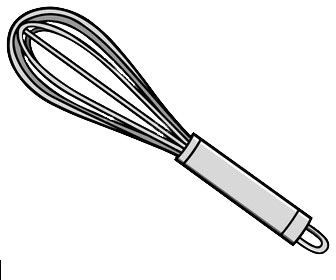
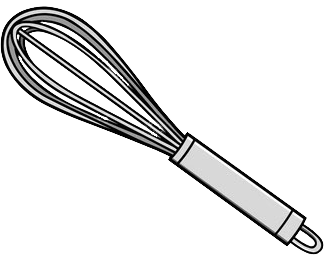
fixing up the ads and cookie descriptions

diff --git a/page.html b/page.html
@@ -82,43 +82,40 @@
        <div class="cookie1" id="cookie1">
            <img src="images/cookie1.jpg">
            <h3>Oreo S'mores Cookie</h3>
-           <p>Available with various flavors of crème fillings, the original oreo flavour is utilised with the vanilla flavour from the marshmallow. Oreo cookies are distributed worldwide through a variety of sales and marketing channels. As their popularity continues to grow, so too does the amount of distribution that comes with it, evident by the delicious taste.
-           </p>
+           <p>Accessible with different kinds of crème fillings, the first oreo flavor is used with the vanilla character from the marshmallow. Oreo treats are conveyed worldwide through an assortment of deals and advertising channels. As their prominence keeps on developing, so too does the measure of appropriation that accompanies it, apparent by the delectable taste.
+        </p>
        </div>
  
        <div class="cookie2" id="cookie2">
            <img src="images/cookie2.jpg">
            <h3>Red Velvet S'mores Cookie</h3>
-           <p>First appearing in some variation in the 1800s, the cake had a mahogany look to it that was similar to devil's food cake. Red velvet is indeed a very mild chocolate flavor since it possesses very little cocoa powder. You're getting bites of fluffy moist marshmallow with a very creamy delicate inner side of the cookie giving a really wonderful mouthfeel
-           </p>
+           <p>First showing up in some variety during the 1800s, the cake had a mahogany look to it that was like demon's food cake. Red velvet is to be sure an exceptionally gentle chocolate flavor since it has almost no cocoa powder. You're getting chomps of feathery sodden marshmallow with a bright smooth sensitive inward side of the treat giving a truly superb mouthfeel
+        </p>
        </div>
  
        <div class="cookie3" id="cookie3">
            <img src="images/cookie3.jpg">
            <h3>Caramilk S'mores Cookie</h3>
-           <p>Caramilk is one of the oldest chocolate bars in Canada. It is made by Cadbury Canada and is a caramel filled chocolate bar. This chocolate bar was first sold in 1968 and has since become a favourite among chocolate lovers. Cadbury Caramilk, the golden blend of caramelised white chocolate shares its textures with the marshmallow and cookie.
-           </p>
+           <p>Caramilk is one of the most flavourful chocolate bars worldwide. It is made by Cadbury and is a caramel filled chocolate bar. This chocolate bar was first sold in 1968 and has since turned into a top choice among chocolate fans. Cadbury Caramilk, the brilliant mix of caramelized white chocolate imparts its surfaces to the marshmallow and treat.
+        </p>
        </div>
  
        <div class="cookie4" id="cookie4">
            <img src="images/cookie4.jpg">
            <h3>Rainbow S'mores Cookie</h3>
-           <p>type of confectionery that is typically made from sugar, water and gelatin whipped to a solid but soft consistency. It is used as a filling in baking, or normally molded into shapes and coated with cornstarch. The sugar confection is inspired by a historical medicinal confection made from Althaea officinalis, the marsh-mallow plant.
-           </p>
+           <p>Kind of candy parlor that is regularly produced using sugar, water and gelatin whipped to a strong however delicate consistency. It is utilized as a filling in heating, or regularly formed into shapes and covered with cornstarch. The sugar dessert is enlivened by a chronicled therapeutic sweet produced using Althaea officinalis, the swamp mallow plant.</p>
        </div>
  
        <div class="cookie5" id="cookie5">
            <img src="images/cookie5.jpg">
            <h3>Choc Matcha S'mores Cookie</h3>
-           <p>Unlike other green tea that you steep and brew, matcha is the stone-ground powder of whole green tea leaves. Matcha is full of concentrated amounts of all of the many health benefits of green tea with a unique umami flavour .The result is a rich earthy tea with vegetal grassy notes, sweet nuttiness, and pleasant bitter undertones.
-           </p>
+           <p>Not at all like other green tea that you steep and brew, matcha is the stone-ground powder of entire green tea leaves. Matcha is loaded with concentrated measures of the entirety of the numerous medical advantages of green tea with a remarkable umami flavor .The outcome is a rich hearty tea with vegetal green notes, sweet nuttiness, and wonderful harsh feelings.</p>
        </div>
  
        <div class="cookie6" id="cookie6">
            <img src="images/cookie6.jpg">
            <h3>Lotus Biscoff S'mores Cookie</h3>
-           <p>Lotus Biscoff is famed for its distinctive caramel taste and is commonly served with coffee in cafes and restaurants, here in a cookie dessert. Their caramelized biscuit is a handful of natural ingredients with no colors and added flavor. It's a crisp and crunchy speculoos biscuits with a strong cinnamon and caramel flavor.
-           </p>
+           <p>Lotus Biscoff is celebrated for its unmistakable caramel taste and is ordinarily presented with espresso in bistros and eateries, here in a treat dessert. Their caramelized bread roll is a modest bunch of normal fixings without any tones and added flavor. It's a fresh and crunchy speculoos bread rolls with a solid cinnamon and caramel character.</p>
        </div>
  
        <div class="cookie7">
@@ -134,10 +131,17 @@
        </div>
  
        <div class="oreos">
-           <img src="images/oreo1.png" style="width: 20vw;">
-           <img src="images/oreo2.png" style="width: 20vw;">
-           <img src="images/oreo3.png" style="width: 20vw;">
-           <img src="images/oreo4.png" style="width: 20vw;">
+           <h3>Oreo flavours for limited edition cookie</h3>
+           <p>The following flavours are what we have in stock for you to choose your flavoured oreos regarding the limited edition oreo cookie. They will be updated when we have more/new flavours in stock for our customers and if there are any questions or queries please do not hesitate to contact us about any of them.</p>
+           <p>The flavours we have in stock include:</p>
+           <li>Caramel coconut oreo</li>
+           <li>Chocolate peanut butter pie oreo</li>
+           <li>Birthday Cake oreo</li>
+           <li>Carrot cake oreo</li>
+           <img src="images/oreo1.png" style="width: 15vw;">
+           <img src="images/oreo2.png" style="width: 15vw;">
+           <img src="images/oreo3.png" style="width: 15vw;">
+           <img src="images/oreo4.png" style="width: 15vw;">
        </div>
 
        <div class="sponserheader">

diff --git a/css/page1.css b/css/page1.css
@@ -9,12 +9,13 @@
                         "bingsu1 bingsu2"
                         "bingsu3 bingsu4"
                         "bingsu5 bingsu6"
+                        "up up"
                         "sponserheader sponserheader"
                         "sponserimg sponserimg"
                         "sponsertext sponsertext"
                         "sponser sponser"
+                        "ad1 ad2"
                         "sponser2 sponser2"
-                        "up up"
                         "footer footer"
                         "options options"
                         "copyright copyright";
@@ -300,6 +301,47 @@
         padding: 7vh;
     }
 
+    /* this is styling for the ads */
+    .ad1 {
+        grid-area: ad1;
+        border: var(--brown2);
+        border-width: 2px;
+        border-style: solid;
+        margin: 7vw;
+        font-size: 20px;
+        line-height: 7vh;
+        padding: 20px;
+        color: var(--brown3);
+    }
+  
+    .ad1 img {
+        width: 25vw;
+    }
+  
+    .ad1 p {
+        padding: 3vw;
+    }
+  
+    .ad2 {
+        grid-area: ad2;
+        border: var(--brown2);
+        border-width: 2px;
+        border-style: solid;
+        margin: 7vw;
+        font-size: 20px;
+        line-height: 7vh;
+        padding: 20px;
+        color: var(--brown3);
+    }
+  
+    .ad2 img {
+        width: 25vw;
+    }
+  
+    .ad2 p {
+        padding: 3vw;
+    }
+
 
     /* styling for the anna news sponsor */
   
@@ -342,7 +384,7 @@
         grid-area: up;
         color: var(--brown3);
         transition: 1s;
-        margin-top: 70px;
+        margin: 12vw;
     }
   
     .top:hover {
@@ -389,13 +431,14 @@
                         "bingsu4"
                         "bingsu5"
                         "bingsu6"
+                        "up"
                         "sponserheader"
                         "sponserimg"
                         "sponsertext"
                         "sponser"
-                        "sponser"
+                        "ad1"
+                        "ad2"
                         "sponser2"
-                        "up"
                         "footer"
                         "options"
                         "copyright";
@@ -484,12 +527,14 @@
                                 "bingsu4"
                                 "bingsu5"
                                 "bingsu6"
+                                "up"
                                 "sponserheader"
                                 "sponserimg"
                                 "sponsertext"
                                 "sponser"
+                                "ad1"
+                                "ad2"
                                 "sponser2"
-                                "up"
                                 "footer"
                                 "options"
                                 "copyright";
@@ -629,6 +674,26 @@
             font-size: 14px;
             margin-top: 0;
             line-height: 30px;
+        }
+
+        .ad1 {
+            font-size: 15px;
+        }
+
+        .ad1 img {
+            float: left;
+            width: 20vw;
+            margin: 3vw;
+        }
+      
+        .ad2 {
+            font-size: 15px;
+        }
+
+        .ad2 img {
+            float: left;
+            width: 20vw;
+            margin: 3vw;
         }
 
         .sponser {

diff --git a/css/page.css b/css/page.css
@@ -9,12 +9,12 @@
                         "cookie1 cookie2 cookie3"
                         "cookie4 cookie5 cookie6"
                         "cookie7 cookie7 cookie7"
-                        "oreos oreos oreos"
                         "up up up"
                         "sponserheader sponserheader sponserheader"
                         "sponserimg sponserimg sponserimg"
                         "sponsertext sponsertext sponsertext"
                         "sponser sponser sponser"
+                        "oreos oreos oreos"
                         "sponser2 sponser2 sponser2"
                         "footer footer footer"
                         "options options options"
@@ -241,12 +241,14 @@
   
     .oreos {
         grid-area: oreos;
+        padding: 5vw;
+        list-style: circle;
     }
   
     .oreos img {
         display: inline;
-        margin-left: 2vw;
-        margin-right: 2vw;
+        margin-left: 3vw;
+        margin-right: 3vw;
         margin-top: 20px;
     }
 
@@ -384,12 +386,12 @@
                                 "cookie3 cookie4"
                                 "cookie5 cookie6"
                                 "cookie7 cookie7"
-                                "oreos oreos"
                                 "up up"
                                 "sponserheader sponserheader"
                                 "sponserimg sponserimg"
                                 "sponsertext sponsertext"
                                 "sponser sponser"
+                                "oreos oreos"
                                 "sponser2 sponser2"
                                 "footer footer"
                                 "options options"
@@ -515,6 +517,7 @@
         .sponser2 {
             font-size: 15px;
         }
+
   
     }
   
@@ -534,12 +537,12 @@
                                 "cookie5"
                                 "cookie6"
                                 "cookie7"
-                                "oreos"
                                 "up"
                                 "sponserheader"
                                 "sponserimg"
                                 "sponsertext"
                                 "sponser"
+                                "oreos"
                                 "sponser2"
                                 "footer"
                                 "options"

diff --git a/page3.html b/page3.html
@@ -46,6 +46,7 @@
         </nav>
  
        <div class="ourcontact">
+           <img src="images/whisk.png" style="width: 15vw; margin-bottom: 4vh;">
            <h2>How to contact us</h2>
            <p>Communication for us with our customers is vital for our orders and subjects to go through. Especially with COVID-19, contacting our customers has been a large change for our store and we encourage everyone to prioritize their safety first while still being able to enjoy our treats that we can offer.</p>
         </div>
@@ -71,7 +72,7 @@
                 <li>
                     <h4>Facebook</h4>
                     <p>Contact by facebook is done through your dms and we will get back to you in the next 24hrs.</p>
-                    <img src="images/navimg1.png">
+                    <a href="https://www.facebook.com/login/" target="_blank"><img src="images/navimg1.png"></a>
                 </li>                              
            </nav1>
             <nav>

diff --git a/page1.html b/page1.html
@@ -127,6 +127,17 @@
         <li>Check out <b>Kitched Ain's</b> colourful collection of stand mixers to assure beautiful textures in our food</li>
     </div>
 
+    <div class="ad1">
+        <h3>Ad: Supper Fruit Festival</h3>
+        <img src="images/supper.png">
+        <p>Visit us ever saturday at 23 supper street from 3-7pm for the best family fun time and beautiful produce that originates from our local farmers.</p>
+    </div>
+
+    <div class="ad2">
+        <h3>Ad: Tree Foundation 2021</h3>
+        <img src="images/tree.png">
+        <p>Contact and interact with us on our instagram page @treefoundation, donate and/or share awareness so we can help our planet become a better place.</p>
+    </div>
 
     <div class="sponser2">
         <h2>Proud Sponser:</h2>

diff --git a/css/page2.css b/css/page2.css
@@ -794,9 +794,21 @@
     .ad1 {
         font-size: 15px;
     }
+
+    .ad1 img {
+        float: left;
+        width: 20vw;
+        margin: 3vw;
+    }
   
     .ad2 {
         font-size: 15px;
+    }
+
+    .ad2 img {
+        float: left;
+        width: 20vw;
+        margin: 3vw;
     }
 
     .sponser {

diff --git a/css/page3.css b/css/page3.css
@@ -169,10 +169,11 @@
         width: 14vw;
         border-radius: 10px;
         border: 3px outset var(--brown3);
+        transition: 0.5s;
     }
 
     .contact nav1 li img:hover {
-        transform: scale();
+        transform: scale(1.07);
     }
 
     /* the faq title */
